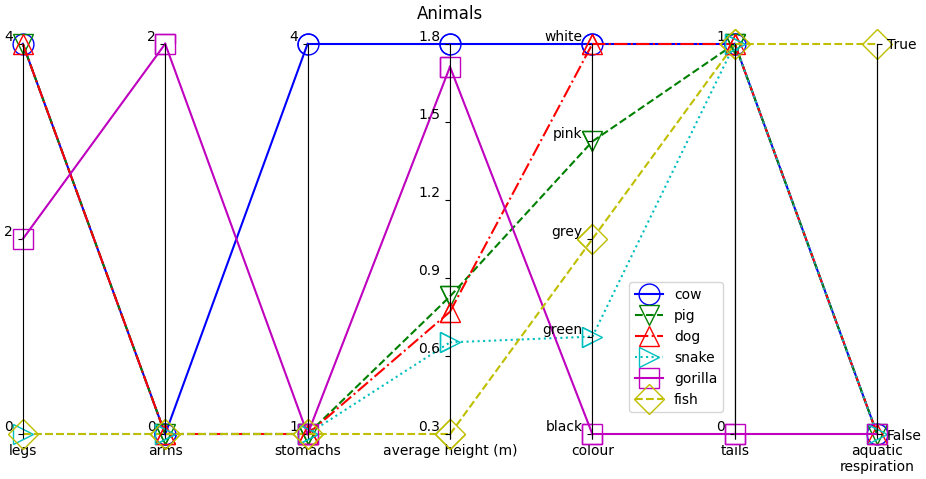
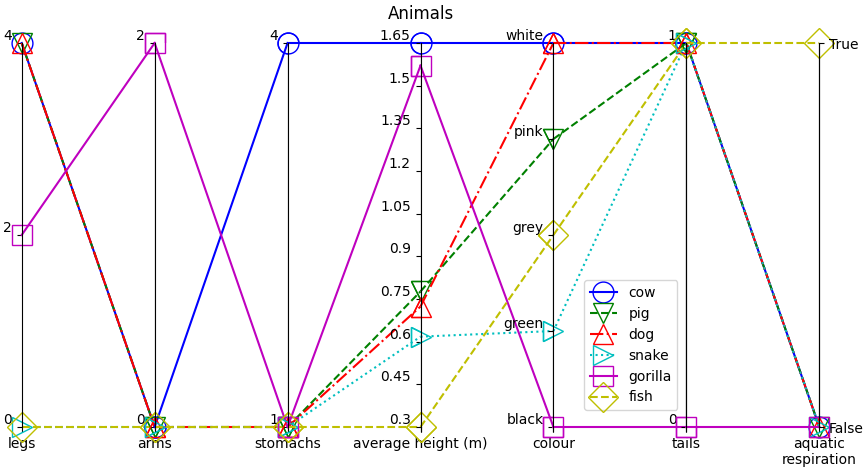
finished data mapping, updated image and changed image size in README.md

diff --git a/src/parallel_coordinate_plot/data_mapping.py b/src/parallel_coordinate_plot/data_mapping.py
@@ -13,14 +13,13 @@ class BaseMap(Generic[T]):
 
         self.yticks: list[float]
         self.yticklabels: list[T]
-        self.yticks, self.yticklabels = self._set_yticks(self.mapping)
+        self.yticks, self.yticklabels = self._set_yticks()
 
     def map_data(self, data: list[T]) -> list[float]:
         return [self.convert(value) for value in data]
     
-    @staticmethod
-    def _set_yticks(mapping: dict[T, float]) -> tuple[list[float], list[T]]:
-        return list(mapping.values()), list(mapping.keys())
+    def _set_yticks(self) -> tuple[list[float], list[T]]:
+        return list(self.mapping.values()), list(self.mapping.keys())
 
     def convert(self, value: T) -> float:
         return self.mapping[value]
@@ -97,14 +96,14 @@ class IntMap(BaseMap[int]):
         Dictionary mapping integer values to float values.
     """
     def __init__(self, data: list[int]) -> None:
-        min_val, max_val, _ = self._normalize_range(data)
+        min_val, max_val = self._normalize_range(data)
         mapping = {value: (value - min_val) / (max_val - min_val) for value in data}
         mapping = dict(sorted(mapping.items()))
 
         super().__init__(data, mapping)
 
     @staticmethod
-    def _normalize_range(data: list[int]) -> tuple[int, int, int]:
+    def _normalize_range(data: list[int]) -> tuple[int, int]:
         return _normalize_range(data)
 
     def convert(self, value: int) -> float:
@@ -120,31 +119,35 @@ class FloatMap(BaseMap):
         Dictionary mapping float values to float values.
     """
     def __init__(self, data: list[float]) -> None:
-        self.__min_val, max_val, self.__min_max_range = self._normalize_range(data)
-
-        self.mapping = {value: (value - self.__min_val) / self.__min_max_range for value in data}
-        self.mapped_data = [self.convert(value) for value in data]
-
-        locator = MaxNLocator(nbins='auto')
-        ticks = locator.tick_values(vmin=self.__min_val, vmax=max_val)
-
-        self.yticks = [self.convert(tick) for tick in ticks]
-        self.yticklabels = [round(tick, 6) for tick in ticks]
+        self.__min_val, self.__max_val = self._normalize_range(data)
+        mapping = {value: (value - self.__min_val) / (self.__max_val - self.__min_val) for value in data}
+        
+        super().__init__(data, mapping)
 
     @staticmethod
     def _normalize_range(data: list[float]) -> tuple[float, float, float]:
         return _normalize_range(data)
+    
+    def map_data(self, data):
+        return [self.convert(value) for value in data]
+
+    def _set_yticks(self) -> tuple[list[float], list[T]]:
+        locator = MaxNLocator(nbins='auto')
+        ticks = locator.tick_values(vmin=self.__min_val, vmax=self.__max_val)
+
+        yticks = [self.convert(tick) for tick in ticks]
+        yticklabels = [round(tick, 6) for tick in ticks]
+
+        return yticks, yticklabels
 
     def convert(self, value: float) -> float:
-        return (value - self.__min_val) / self.__min_max_range
+        return (value - self.__min_val) / (self.__max_val - self.__min_val)
 
-
-def _normalize_range(data: list[Any]) -> tuple[Any, Any, Any]:
+def _normalize_range(data: list[Any]) -> tuple[Any, Any]:
     # determine the min and max values of the column, and the range
     min_val, max_val = min(data), max(data)
     if min_val == max_val:
         min_val -= 0.5
         max_val += 0.5
-    min_max_range = max_val - min_val
 
-    return min_val, max_val, min_max_range
+    return min_val, max_val

diff --git a/src/parallel_coordinate_plot/parallel_coordinate_plot.py b/src/parallel_coordinate_plot/parallel_coordinate_plot.py
@@ -4,7 +4,7 @@ import matplotlib.pyplot as plt
 import numpy as np
 
 from parallel_coordinate_plot.data_mapping import BoolMap, FloatMap, IntMap, StringMap
-from parallel_coordinate_plot.core import _get_plot_style, T
+from parallel_coordinate_plot.core import _get_plot_style
 
 __all__ = [
     "map_string_to_int",

diff --git a/README.md b/README.md
@@ -4,7 +4,11 @@ A Python package for producing parallel coordinate plots.
 
 The following example was generated using ```examples/demo.py```.
 
-![image info](./examples/animals.png)
+<img
+    src="./examples/animals.png"
+    alt="Example parallel coordinate plot that compares various animals."
+    width="470"
+/>
 
 ## Rationale
 
